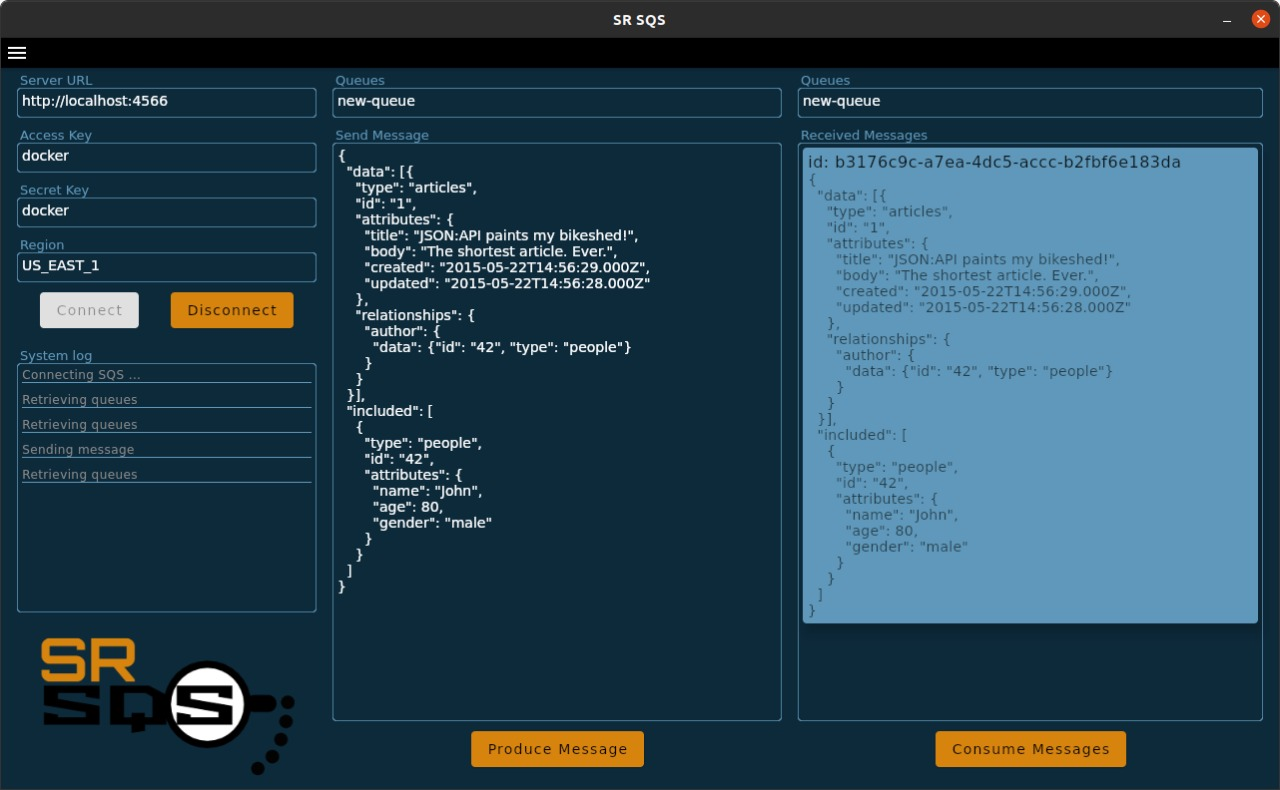
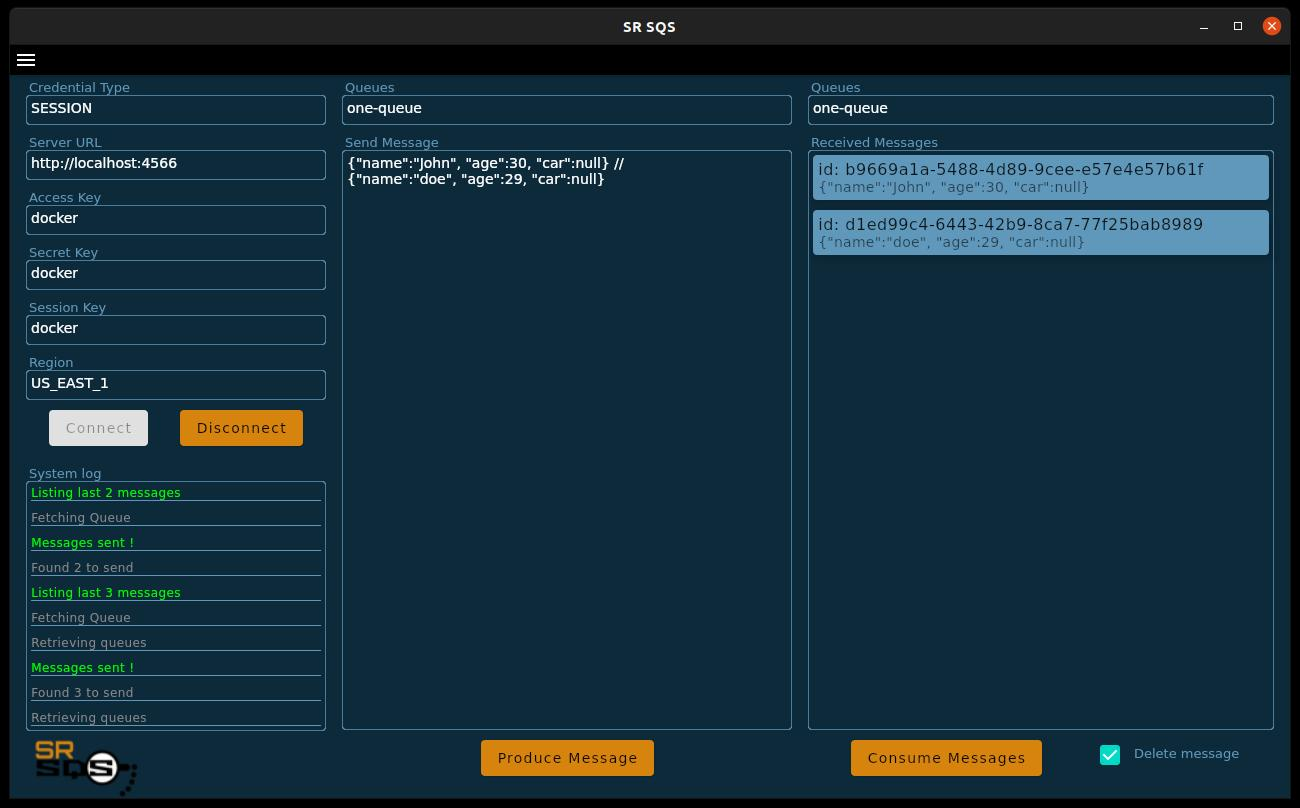
DLQ Reprocess:
- Added Function to reprocess DQL;
- Added option to not consume messages in queue;
- Added new connection type to handle AWS session credential;
- Corrected bug where logs where not refreshed properly;
- Started componentization of views.

diff --git a/README.md b/README.md
@@ -9,7 +9,8 @@ Simple generic Amazon SQS client designed to make asynchronous applications that
 - Consume (Receive) messages;
 - Show message details;
 - Create Queue;
-- Create configuration file for AWS LocalStack.
+- Create configuration file for AWS LocalStack;
+- Reprocess DLQ queues.
 
 SR-SQS is able to act as a generic consumer and producer to ensure your application workflow is running well.
 
@@ -17,3 +18,4 @@ SR-SQS is able to act as a generic consumer and producer to ensure your applicat
 
 ![alt text](https://raw.githubusercontent.com/MDalfre/sr-sqs/master/.github/images/prtsc1.jpeg)
 ![alt text](https://raw.githubusercontent.com/MDalfre/sr-sqs/master/.github/images/prtsc2.jpeg)
+![alt text](https://raw.githubusercontent.com/MDalfre/sr-sqs/master/.github/images/prtsc3.jpeg)
